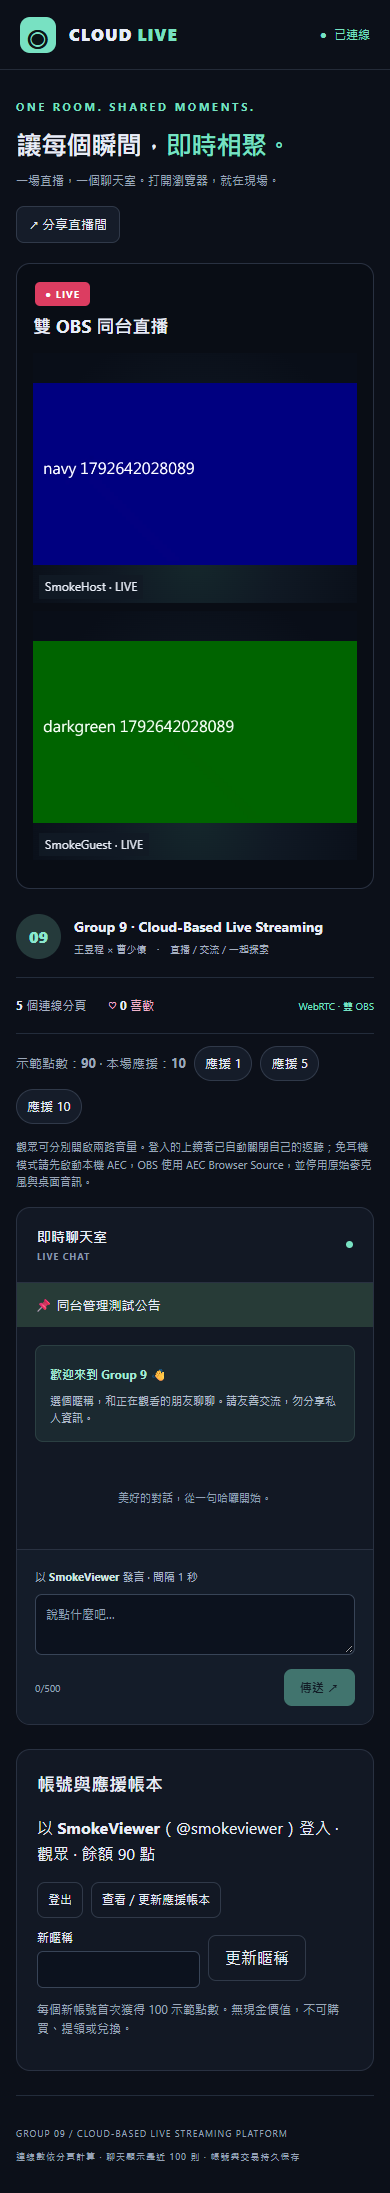
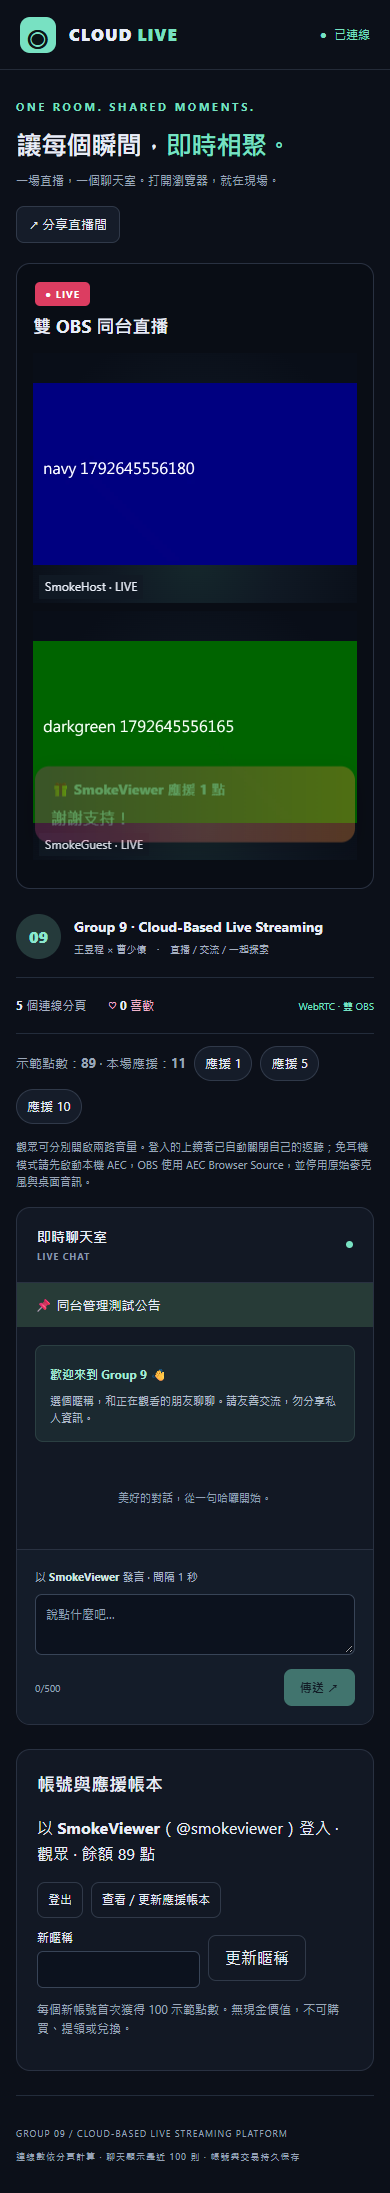
Complete donation ledger history and live updates

Changed region(s): [[0.0923, 0.3101, 0.9231, 0.4031], [0.3385, 0.186, 0.4, 0.2171]]

diff --git a/course/src/Account.jsx b/course/src/Account.jsx
@@ -1,10 +1,28 @@
-import React, { useState } from 'react';
+import React, { useEffect, useRef, useState } from 'react';
 
-export default function Account({ user, available, onChange, command, onError }) {
+export default function Account({ user, available, onChange, command, onError, socket }) {
   const [register, setRegister] = useState(false);
   const [busy, setBusy] = useState(false);
   const [ledger, setLedger] = useState(null);
   const [name, setName] = useState('');
+  const ledgerRequest = useRef(0);
+  const [loadingLedger, setLoadingLedger] = useState(false);
+  async function loadLedger(before = null) {
+    const request = ++ledgerRequest.current;
+    setLoadingLedger(true);
+    try {
+      const page = await command('ledger', before);
+      if (request !== ledgerRequest.current) return;
+      setLedger((previous) => ({ ...page, transactions: before && previous ? [...previous.transactions, ...page.transactions] : page.transactions }));
+    } catch (error) { onError(error); }
+    finally { if (request === ledgerRequest.current) setLoadingLedger(false); }
+  }
+  useEffect(() => {
+    if (!ledger) return;
+    const refresh = () => loadLedger();
+    socket.on('ledger:changed', refresh);
+    return () => socket.off('ledger:changed', refresh);
+  }, [Boolean(ledger), socket]);
   async function submit(event) {
     event.preventDefault(); setBusy(true);
     try {
@@ -24,11 +42,11 @@ export default function Account({ user, available, onChange, command, onError })
     } catch (error) { onError(error); }
   }
   return <section className="account-panel" aria-label="帳號與應援帳本"><h2>帳號與應援帳本</h2>
-    {user ? <><p>以 <strong>{user.nickname}</strong>（@{user.username}）登入 · {user.role === 'viewer' ? '觀眾' : '主播／管理員'} · 餘額 {user.points} 點</p><div className="duo-controls"><button onClick={logout}>登出</button><button onClick={() => command('ledger').then(setLedger).catch(onError)}>查看／更新應援帳本</button></div><form className="inline-form" onSubmit={(event) => { event.preventDefault(); command('nickname', name).then(() => setName('')).catch(onError); }}><label>新暱稱 <input maxLength="24" value={name} onChange={(e) => setName(e.target.value)} required/></label><button>更新暱稱</button></form></> : <>
+    {user ? <><p>以 <strong>{user.nickname}</strong>（@{user.username}）登入 · {user.role === 'viewer' ? '觀眾' : '主播／管理員'} · 餘額 {user.points} 點</p><div className="duo-controls"><button onClick={logout}>登出</button><button disabled={loadingLedger} onClick={() => loadLedger()}>查看／更新應援帳本</button></div><form className="inline-form" onSubmit={(event) => { event.preventDefault(); command('nickname', name).then(() => setName('')).catch(onError); }}><label>新暱稱 <input maxLength="24" value={name} onChange={(e) => setName(e.target.value)} required/></label><button>更新暱稱</button></form></> : <>
       {!available && <p role="status">此網址尚未啟用安全登入。請使用 HTTPS 或本機 localhost。</p>}
       <form className="account-form" onSubmit={submit}><label>帳號<input name="username" autoComplete="username" minLength="3" maxLength="24" pattern="[a-zA-Z0-9_]{3,24}" required/></label>{register && <label>暱稱<input name="nickname" autoComplete="nickname" maxLength="24" required/></label>}<label>密碼<input name="password" type="password" autoComplete={register ? 'new-password' : 'current-password'} minLength="12" maxLength="128" required/></label><button className="primary" disabled={busy || !available}>{busy ? '處理中…' : register ? '建立帳號' : '登入'}</button><button type="button" onClick={() => setRegister(!register)}>{register ? '已有帳號，改為登入' : '註冊新帳號'}</button></form>
     </>}
     <p className="muted">每個新帳號首次獲得 100 示範點數。無現金價值，不可購買、提領或兌換。</p>
-    {ledger && user && <div className="ledger"><p>累計送出 {ledger.sent} 點 · 主播累計收到 {ledger.received} 點 · 目前餘額 {ledger.points} 點</p><p>最近 100 筆{ledger.scope === 'all' ? '全站' : '個人'}交易；同一請求重試不會重複扣點。主播收到的點數另列收入，不可提領或轉成可用餘額。</p>{ledger.reconciliation && <p role="status">全站核帳：已發 {ledger.reconciliation.granted} 點 = 錢包 {ledger.reconciliation.wallets} + 主播收入 {ledger.reconciliation.income} · {ledger.reconciliation.balanced ? '帳目平衡' : '帳目異常，請檢查'}</p>}<div className="table-scroll"><table><thead><tr><th>時間</th><th>送出帳號</th><th>收取帳號</th><th>點數</th><th>交易 ID</th></tr></thead><tbody>{ledger.transactions.map((row) => <tr key={row.id}><td>{new Date(row.at).toLocaleString('zh-TW')}</td><td>{row.sender}</td><td>{row.recipient}</td><td>{row.amount}</td><td>{row.id}</td></tr>)}</tbody></table></div></div>}
+    {ledger && user && <div className="ledger"><p>累計送出 {ledger.sent} 點 · 主播累計收到 {ledger.received} 點 · 目前餘額 {ledger.points} 點</p><p>每頁 100 筆{ledger.scope === 'all' ? '全站' : '個人'}交易；同一請求重試不會重複扣點。主播收到的點數另列收入，不可提領或轉成可用餘額。</p>{ledger.reconciliation && <p role="status">全站核帳：已發 {ledger.reconciliation.granted} 點 = 錢包 {ledger.reconciliation.wallets} + 主播收入 {ledger.reconciliation.income} · {ledger.reconciliation.balanced ? '帳目平衡' : '帳目異常，請檢查'}</p>}<div className="table-scroll"><table><thead><tr><th>時間</th><th>送出帳號</th><th>收取帳號</th><th>點數</th><th>交易 ID</th></tr></thead><tbody>{ledger.transactions.map((row) => <tr key={row.id}><td>{new Date(row.at).toLocaleString('zh-TW')}</td><td>{row.sender}</td><td>{row.recipient}</td><td>{row.amount}</td><td>{row.id}</td></tr>)}</tbody></table></div>{ledger.transactions.length === 0 && <p>尚無應援交易。</p>}{ledger.nextCursor && <button disabled={loadingLedger} onClick={() => loadLedger(ledger.nextCursor)}>{loadingLedger ? '載入中…' : '載入更早交易'}</button>}</div>}
   </section>;
 }

diff --git a/course/src/main.jsx b/course/src/main.jsx
@@ -178,7 +178,7 @@ function App() {
           {error && <p className="error" role="alert">{error}</p>}
         </div>
       </aside></div>
-      <Account key={user?.id || 'guest'} user={user} available={accountsAvailable} onChange={reloadAccount} command={command} onError={onError}/>
+      <Account socket={socket} key={user?.id || 'guest'} user={user} available={accountsAvailable} onChange={reloadAccount} command={command} onError={onError}/>
       {management && <Moderation command={command} onError={onError}/>}
       {error && <p className="error" role="alert">{error}</p>}
       {notice && <div className="notice" role="status"><span>{notice}</span><button aria-label="關閉分享提示" onClick={() => setNotice('')}>×</button></div>}

diff --git a/course/VERIFICATION.md b/course/VERIFICATION.md
@@ -168,3 +168,11 @@
 - 新增第二台 AEC 設定包產生器，白名單 12 個來源檔＋manifest，ZIP 逐檔 SHA-256 讀回核對。套件不含任何既有 `.runtime`、推流密鑰、帳號或資料庫；上游 runtime 於第二台首次安裝時下載並核對固定 SHA-256。
 - 將安裝包解到全新中文／空白路徑，使用既有 Python 3.10.6 重新建立獨立 venv、安裝全部依賴，AEC 引擎／注入故障保護／近端及雙講 fixture 與校正自檢全部通過。發現並修正了全新套件不存在 `evidence/` 時無法寫入測試結果的問題。這是同一台電腦的全新安裝測試，**不是第二台實體電腦驗收**。
 - 本次音效裝置已在 finally 中關閉，沒有啟動網站推流、修改 OBS 場景、安裝驅動或改變系統音量。第二台的操作方式與兩台是否同房仍等待使用者提供，現階段保留未完成狀態。
+## 2026-10-22 帳本歷史與自動更新
+
+- 第二台電腦尚未決定，依使用者指示延後雙機與免耳機回音實機驗收，繼續完成帳號、聊天室管理與應援功能。
+- 帳本新增每頁 100 筆的游標分頁，可讀取更早交易；一般帳號僅能查自己的收支，管理員可查全站。累計與核帳仍以完整資料計算。
+- 已開啟的帳本收到交易通知會更新；載入中的舊回應不會覆蓋較新的刷新結果。
+- Node 測試 15/15 通過，包含超過 100 筆、新交易插入期間翻頁、不重複與不漏舊資料、非法游標及私有帳目權限。HLS 與 WHEP 建置通過。
+- 本機 Chrome 操作驗證涵蓋登入登出、點數保存、公告、禁言、刪訊息、主播帳本自動更新及手機版面。媒體來源為合成串流，不代表兩台實體 OBS 或聲學驗收。
+- 此分支尚未部署至 Azure 正式站；公開帳號登入仍需要 HTTPS。建置保留既有大型 bundle 警告。
